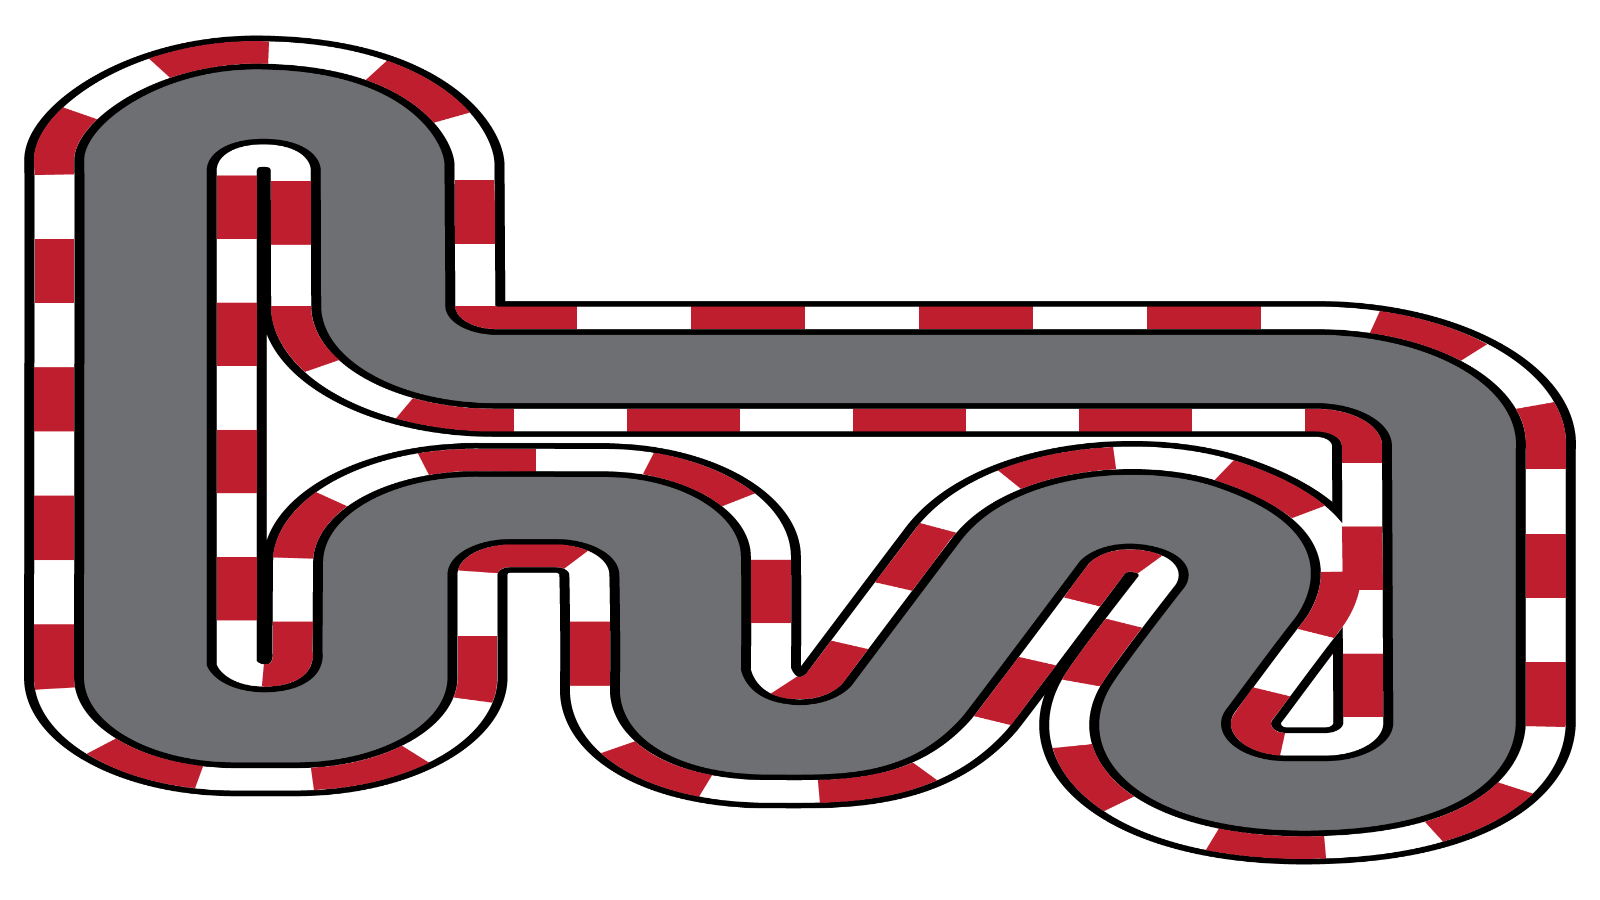
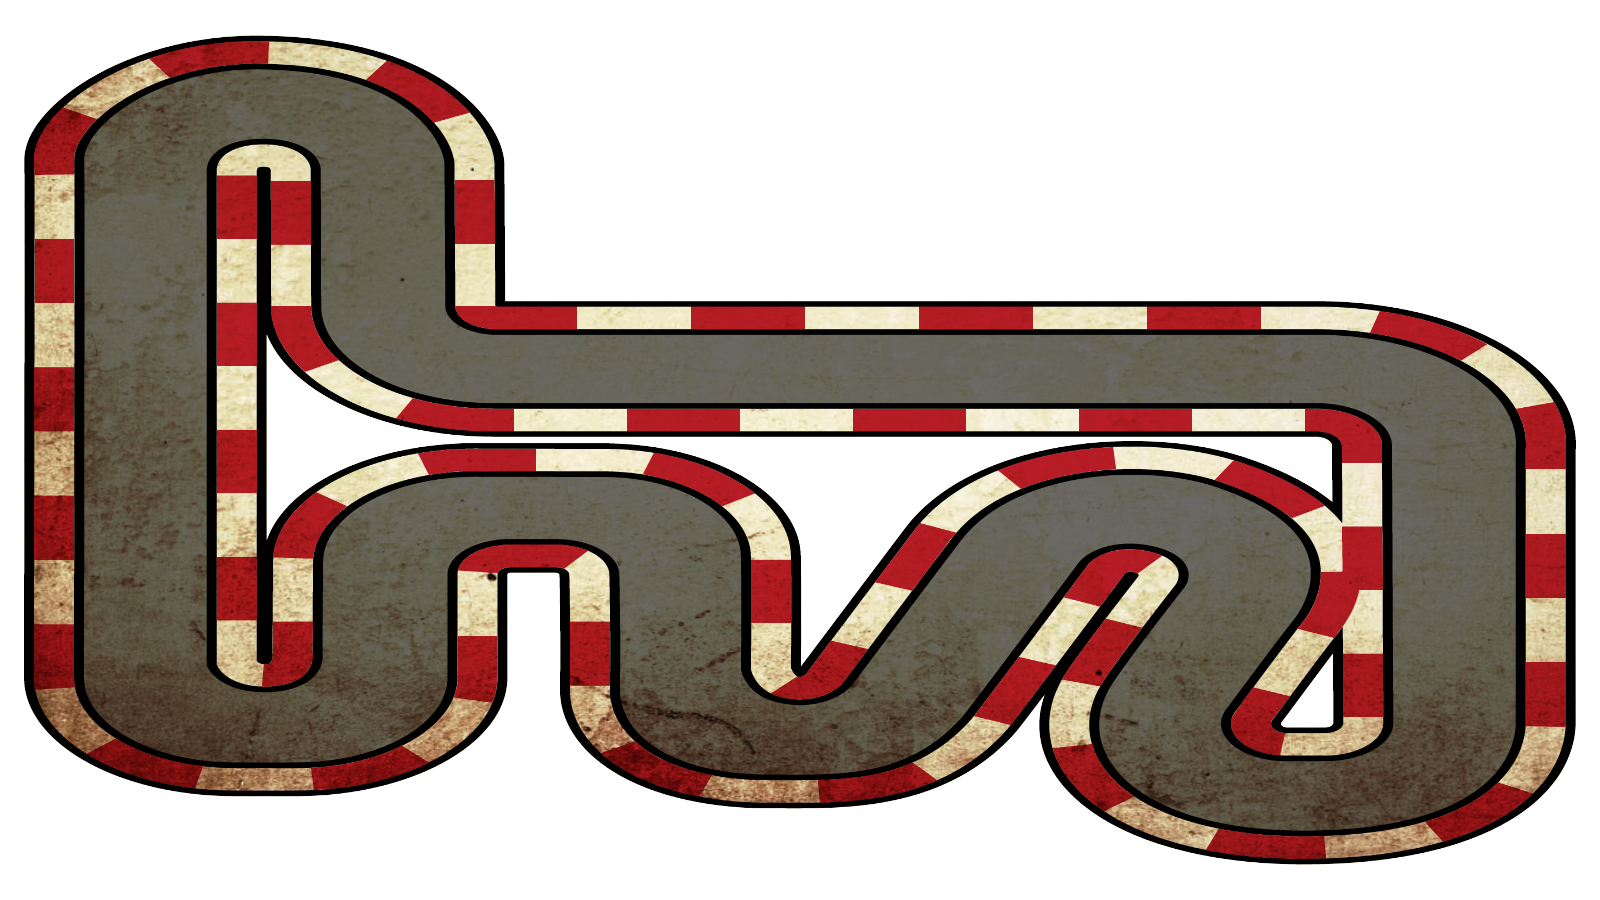
texture changes

diff --git a/Environment.py b/Environment.py
@@ -172,7 +172,15 @@ class Environment:
                 
         self.time_bonus_group.draw(self.surface)
         self.surface.blit(self.track_border, (0, 0))
-    
+
+        #boost
+        # if self.car1 and self.car1_active:
+        #     self.car1.update_boost()
+        #     self.car1.draw_boost(self.surface)
+        # if self.car2 and self.car2_active:
+        #     self.car2.update_boost()
+        #     self.car2.draw_boost(self.surface)
+            
         if self.car1 and self.car1_active:
             blit_rotate_center(self.surface, self.car1.image, (self.car1.x, self.car1.y), self.car1.angle)
         if self.car2 and self.car2_active:

diff --git a/Constants.py b/Constants.py
@@ -1007,7 +1007,7 @@ TRACK_BONUS_POINTS = {
     "track5": track5_points
 }
 
-TIME_BONUS_IMAGE = r'photo\time-bonus-icon.svg'
+TIME_BONUS_IMAGE = r'photo\time-bonus-icon.png'
 FONT = r"fonts\Default.otf"
 SPEEDOMETERFONT = r'fonts\speedometer.ttf'
 COUNTDOWN_FONT = r'fonts\CountDownFont.otf'

diff --git a/Car.py b/Car.py
@@ -38,7 +38,7 @@ class Car:
             WHITE,
             BLACK    
         ]
-
+            
     def cast_rays(self, border_mask):
         self.ray_distances = []
         
